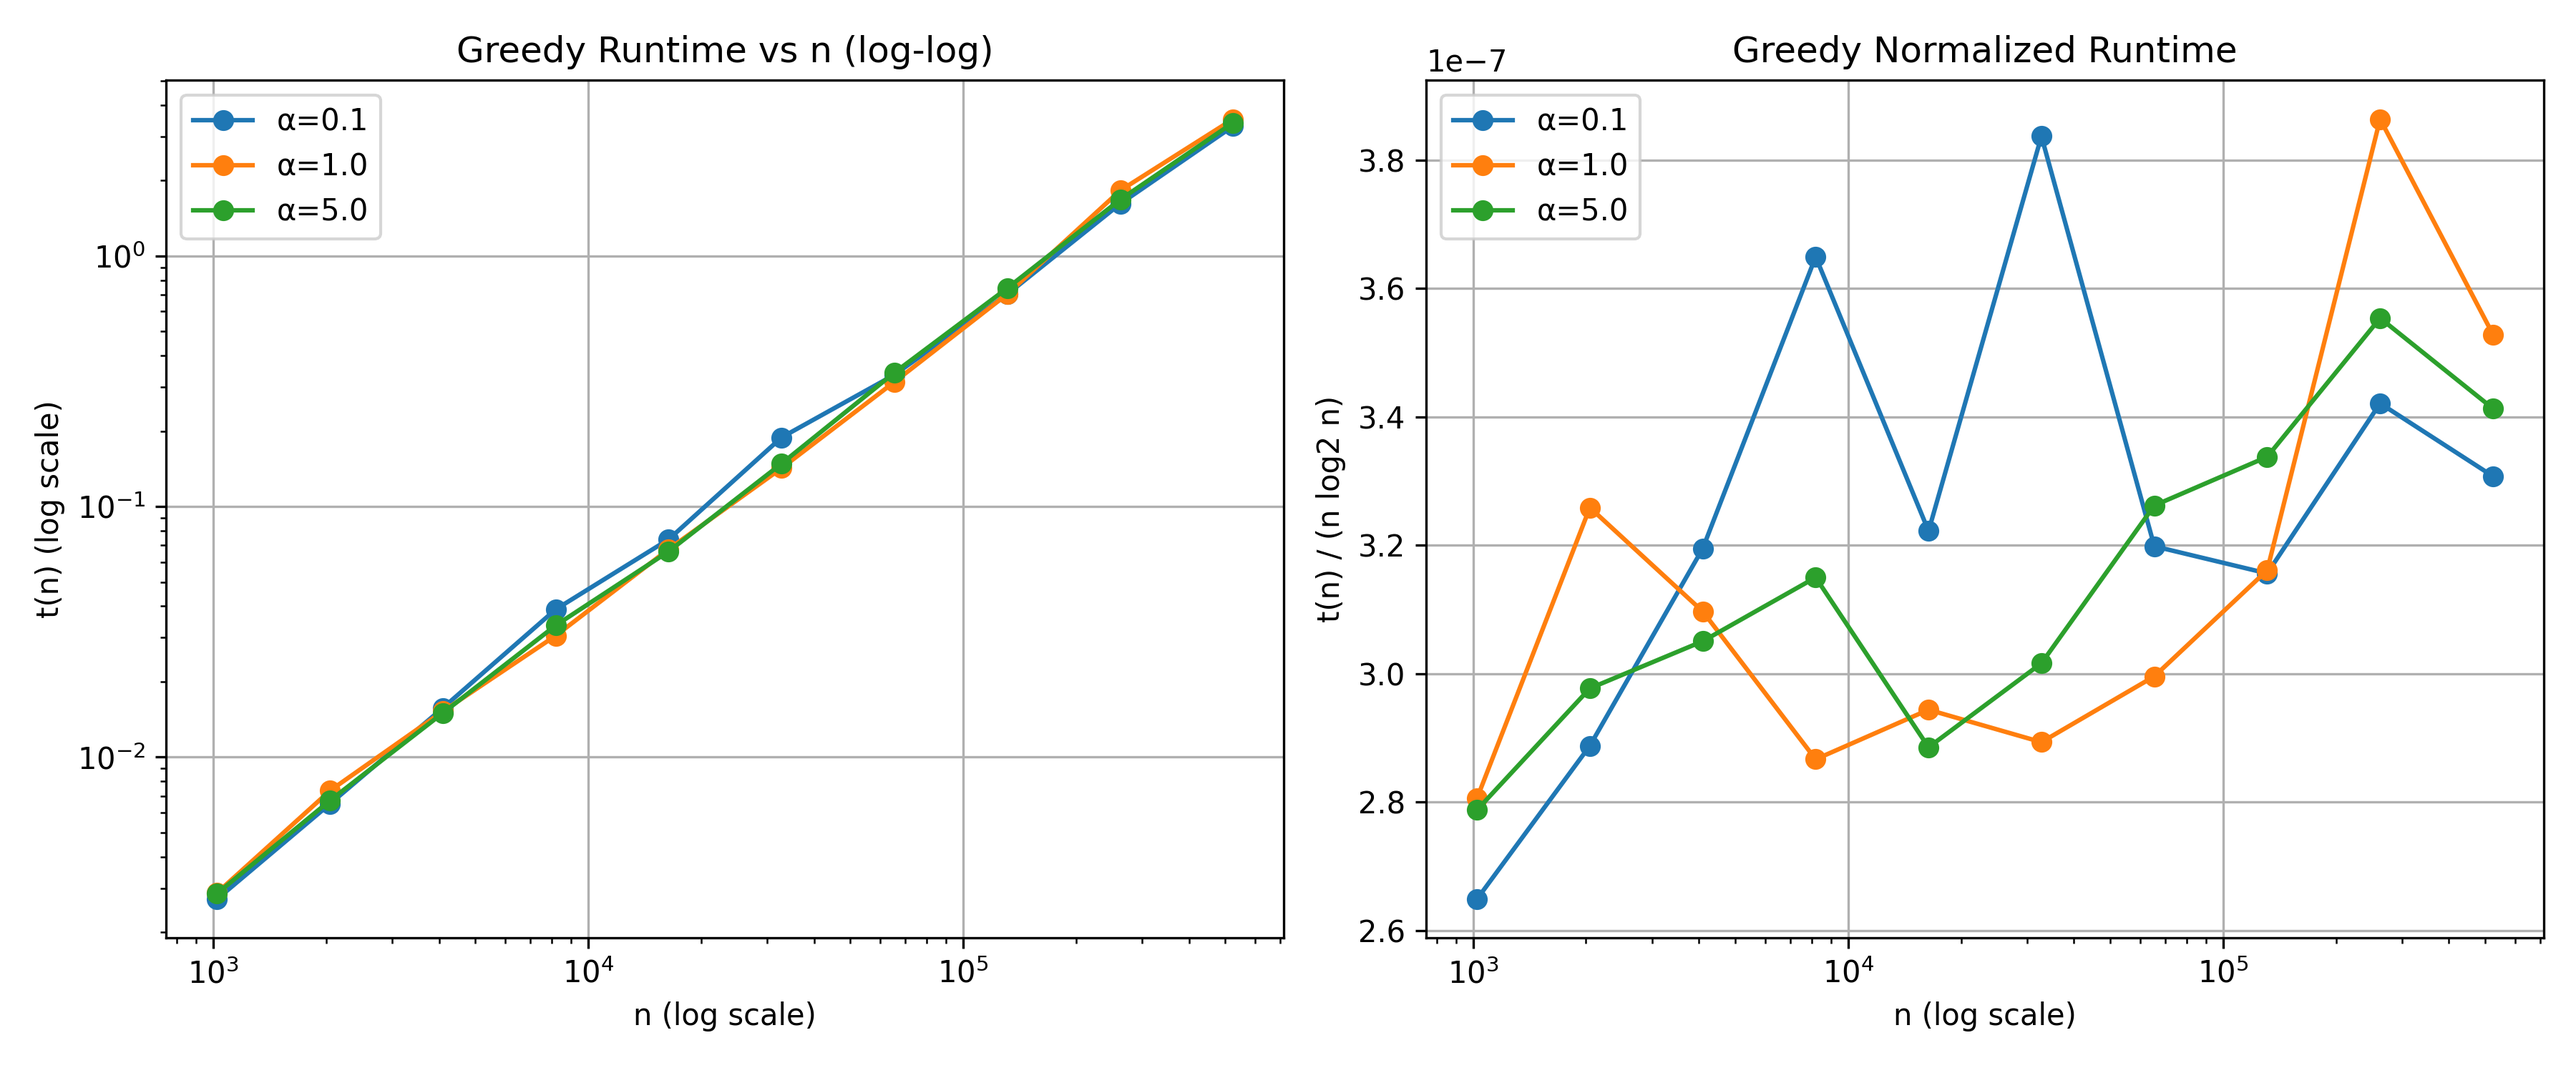
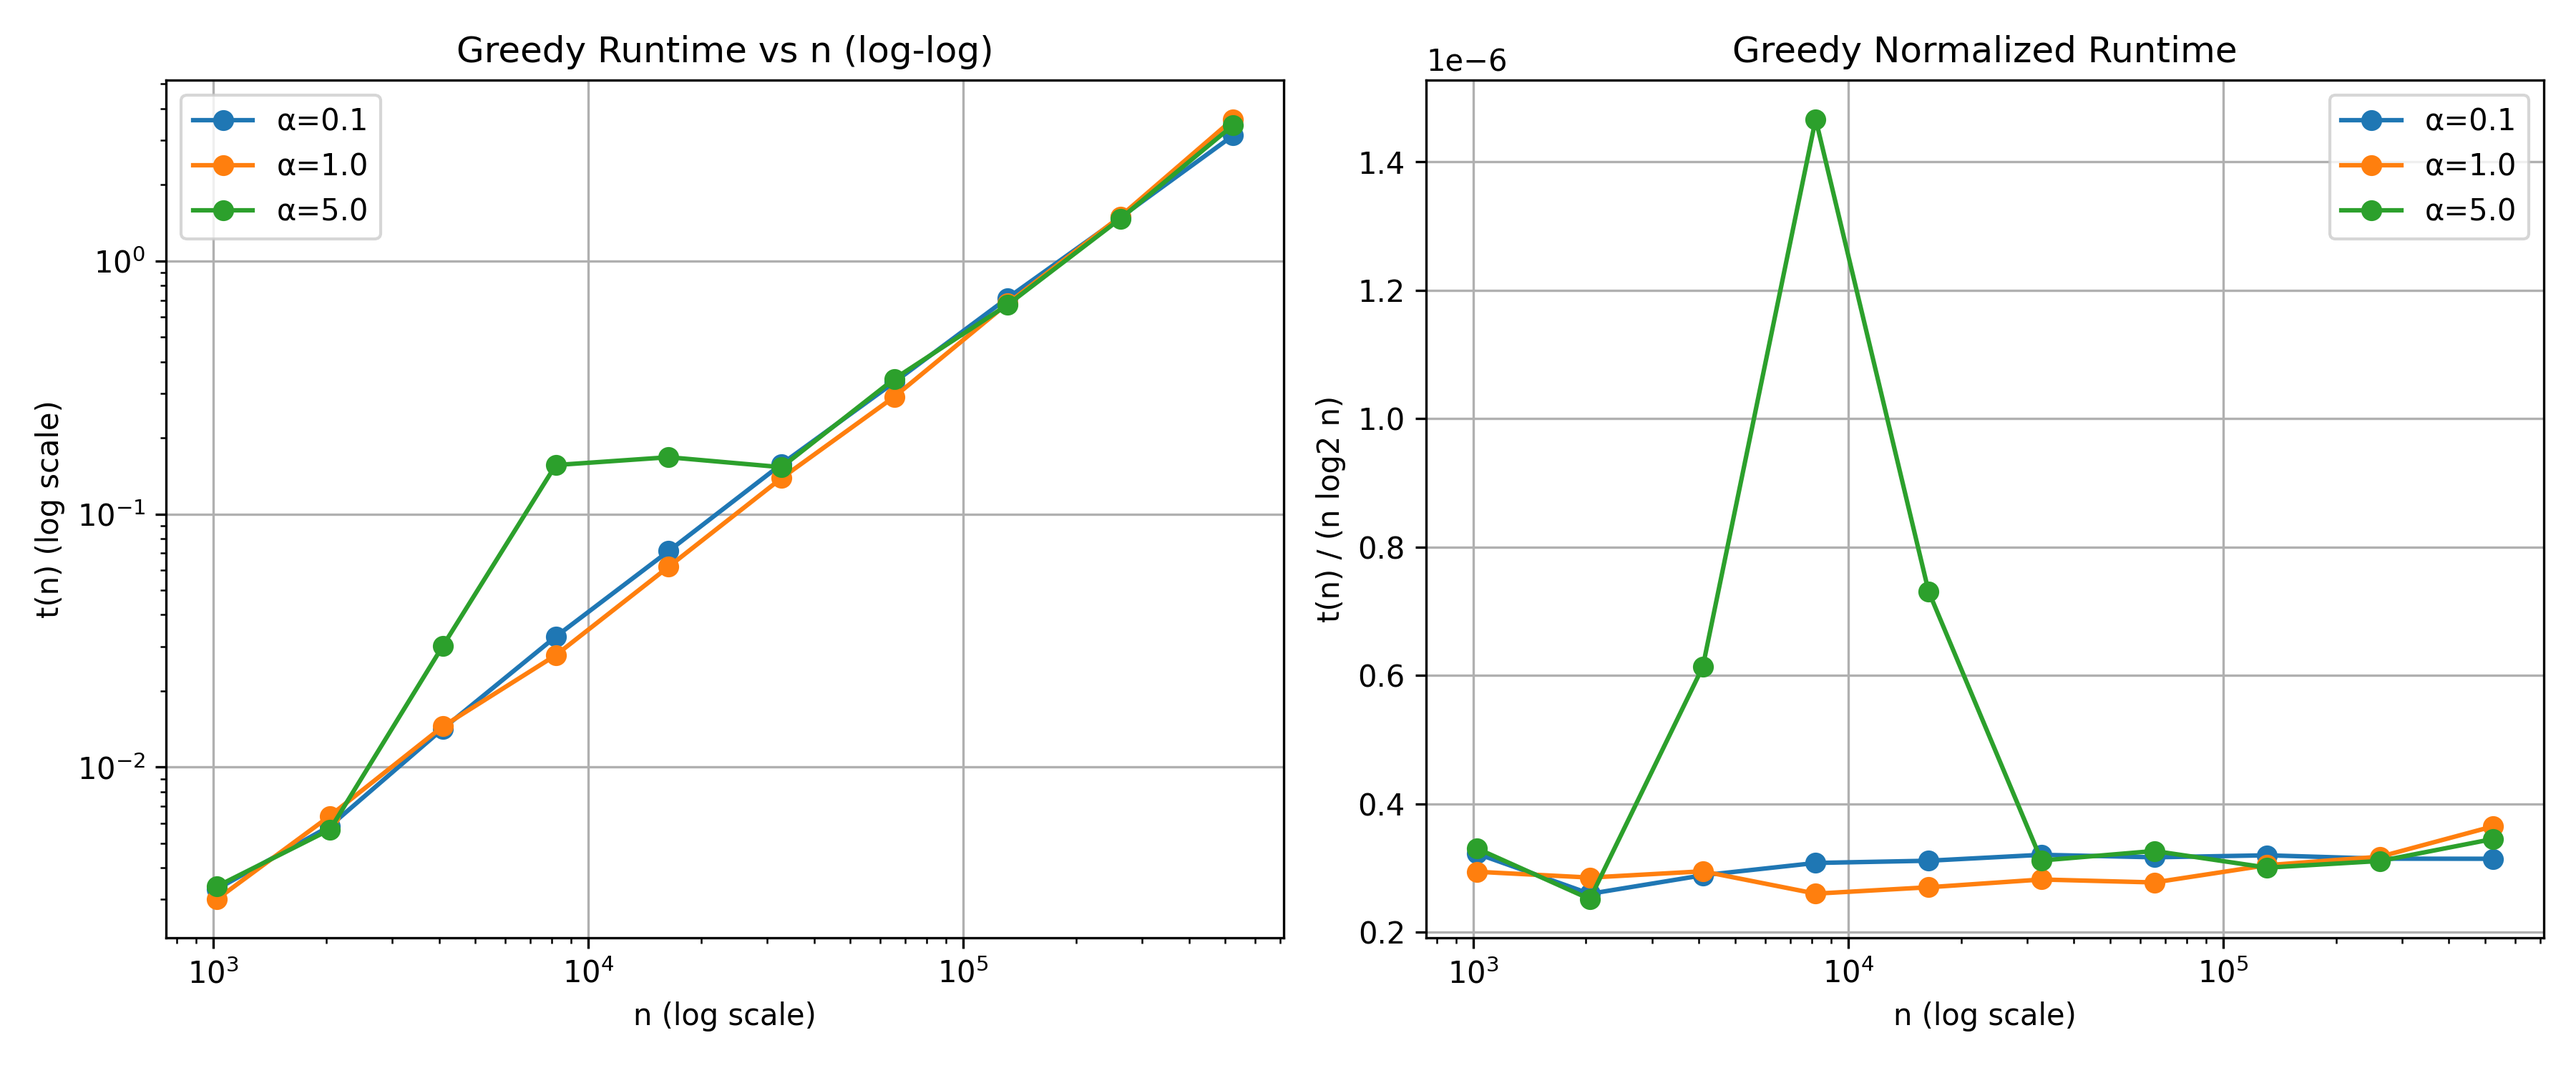
Updated Experiments

diff --git a/Readme.md b/Readme.md
@@ -5,7 +5,7 @@ The coding task implements and empirically evaluates greedy heuristics and an ex
 - **Dataset Generation**: Random intervals with start ~ Uniform(0, T), duration ~ Uniform(1, 100), where T = α * n * 100. α controls overlap: 0.1 (high), 1.0 (medium), 5.0 (low).
 - **Algorithms**:
   - Greedy: EFT (sort by finish, select non-overlapping), EST (sort by start), SD (sort by duration). All use merge sort (O(n log n)).
-  - Exhaustive: Enumerates 2^n subsets, validates non-overlap (O(n log n) per subset), finds max size. No pruning, leading to O(n 2^n log n) worst-case.
+  - Exhaustive: Enumerates 2^n subsets, validates non-overlap (O(n log n) per subset), finds max size. No pruning, leading to O(n 2^n) worst-case.
 - **Experiments**: Quality ratios (small n=8-20), greedy runtime (n=2^10 to 2^19), exhaustive runtime (n=10-20). For each configuration we compute and report the mean and standard deviation over multiple trials.
 - **Tools**: Python, NumPy, Matplotlib.
 
@@ -15,11 +15,11 @@ The coding task implements and empirically evaluates greedy heuristics and an ex
 Experiments: For n=8 to 20 (step 2), 20 trials per point, we compute the mean and standard deviation of the quality ratio (greedy count / optimal count).
 
 ### Key Findings
-- **EFT**: Always achieves ratio 1.0 across all α and n, confirming optimality. This aligns with proof by contradiction: assuming an optimal solution has more jobs leads to a contradiction by showing the greedy algorithm's early finish leaves room for additional jobs.
-- **EST and SD**: Heuristics that are not always optimal. Performance degrades with higher n and overlap:
-  - High overlap (α=0.1): EST drops to ~0.7, SD to ~0.5. Dense conflicts punish poor choices (e.g., EST may select early-starting long jobs blocking others; SD prioritizes short jobs that block compatible longer ones).
-  - Medium overlap (α=1.0): EST ~0.7-0.9, SD ~0.6. Moderate degradation.
-  - Low overlap (α=5.0): All ~0.9-1.0, as sparsity reduces suboptimal impact.
+- **EFT**: Empirically achieves ratio 1.0 (EFT_mean = 1.0 with zero standard deviation) across all α and n, confirming optimality. This aligns with proof by contradiction: assuming an optimal solution has more jobs leads to a contradiction by showing the greedy algorithm's early finish leaves room for additional jobs.
+- **EST and SD**: Heuristics that are not always optimal. Performance degrades with higher n and depends strongly on overlap:
+  - High overlap (α=0.1): EST ratios stay around 0.70–0.76 (e.g., 0.698 at n=20), while SD ratios decrease from about 0.83 (n=8) to about 0.51 (n=20). Dense conflicts punish poor choices (e.g., EST may select early-starting long jobs blocking others; SD prioritizes short jobs that block compatible longer ones).
+  - Medium overlap (α=1.0): EST remains very close to 1.0 (≈0.96–0.99 across n), whereas SD ratios are significantly lower, roughly 0.24–0.47 and decreasing with n (0.240 at n=20).
+  - Low overlap (α=5.0): EST is essentially always optimal (≈1.0 for all n), but SD still performs poorly, with ratios dropping from ~0.34 (n=8) to ~0.18 (n=20), illustrating that duration-only greediness is a weak quality heuristic even when intervals are sparse.
 - Observation: EFT's finish-time priority is crucial (proven optimal). Heuristics approximate well in sparse scenarios but fail in dense ones, highlighting why they're heuristics with no correctness guarantee.
 
 ### Plot: Solution Quality: Greedy vs Optimal
@@ -29,42 +29,42 @@ Experiments: For n=8 to 20 (step 2), 20 trials per point, we compute the mean an
 
 | α (Overlap) | EFT Ratio | EST Ratio | SD Ratio | Optimal |
 |-------------|-----------|-----------|----------|---------|
-| 0.1 (High)  | 1.0       | 0.721     | 0.520    | 1.0     |
-| 1.0 (Medium)| 1.0       | 0.963     | 0.258    | 1.0     |
-| 5.0 (Low)   | 1.0       | 1.0       | 0.179    | 1.0     |
+| 0.1 (High)  | 1.000     | 0.698     | 0.508    | 1.0     |
+| 1.0 (Medium)| 1.000     | 0.972     | 0.240    | 1.0     |
+| 5.0 (Low)   | 1.000     | 0.997     | 0.180    | 1.0     |
 
 These results validate that SD has counterexamples (high-overlap case shows failure) and demonstrate the maintained non-overlap loop invariant in the greedy algorithm, proven via induction.
 
 ## 3. Runtime Complexity Validation
-**Coding Question Addressed**: Empirically validate Big-O complexities for greedy (O(n log n)) and exhaustive (O(n 2^n)) across α, with normalization to confirm bounds.
+**Coding Question Addressed**: Empirically validate Big-O complexities for greedy (O(n log n)) and exhaustive (O(2^n)) across α, with normalization to confirm bounds.
 
 ### 3.1 Greedy Runtime (EFT as Representative)
 Experiments: n=1024 to ~500k, 10 trials. For each configuration we measure total time (sorting + selection) and compute both the mean and standard deviation across trials.
 
 - **Findings**:
   - Runtime scales as O(n log n): Log-log plot shows near-linear slope (slope ≈1 for n log n).
-  - Normalized t(n)/(n log₂ n): Stabilizes at ~2.2-2.9 × 10^{-7} s (constant, confirming bound). Initial fluctuations due to overhead at small n.
-  - α Impact: Low overlap (α=5.0) slightly faster (fewer comparisons); high overlap slower but same complexity.
-- Ties to Theory: Matches Mergesort's O(n log n) worst-case time complexity and O(n) space, compared to Quicksort's O(n^2) worst-case time but O(log n) space.
+  - Normalized t(n)/(n log₂ n): Stabilizes around (2.7–3.7) × 10^{-7} s for α=1.0 (e.g., ≈2.94 × 10^{-7} at n=1024 and ≈3.65 × 10^{-7} at n=524288), confirming the n log n bound. Initial fluctuations are due to overhead at small n.
+  - α Impact: All three overlap regimes exhibit very similar growth curves; constants differ slightly but the asymptotic behaviour is the same.
+- Ties to Theory: Matches Mergesort's O(n log n) worst-case time complexity and O(n) space.
 
 ### Plot: Greedy Runtime Validation
 ![Greedy Runtime Validation](plots/greedy_big_o.png)
 
 **Table 2: Greedy Runtime Excerpt (α=1.0)**
 
-| n      | Time (ms) | Normalized (×10^{-7}) |
-|--------|-----------|-----------------------|
-| 1024   | 2.87      | 2.81                  |
-| 16384  | 67.52     | 2.94                  |
-| 524288 | 3514.74   | 3.53                  |
+| n      | Time Mean (ms) | Time Std (ms) | Normalized (×10^{-7}) |
+|--------|----------------|---------------|-----------------------|
+| 1024   | 3.01           | 0.29          | 2.94                  |
+| 16384  | 61.92          | 4.36          | 2.70                  |
+| 524288 | 3634.42        | 392.81        | 3.65                  |
 
 ### 3.2 Exhaustive Runtime
 Experiments: n=10-20, 5 trials. For each configuration we record the mean and standard deviation of the exhaustive solver's runtime.
 
 - **Findings**:
-  - Runtime O(n 2^n): vs n plot shows exponential growth (up to ~4s at n=20 for high overlap).
-  - Normalized t(n)/(n 2^n): Decreases to ~1.6-2.4 × 10^{-7} s (trends toward constant but doesn't fully stabilize due to small n). High overlap (α=0.1) has lower constant (implicit early invalidations act as "pruning").
-  - α Impact: High overlap faster in practice (more early conflicts skip computations), but worst-case still exponential.
+  - Runtime O(n 2^n): vs n plot shows exponential growth (up to roughly 4s at n=20 for high overlap; e.g., ≈3.93 s for α=0.1 and ≈4.85 s for α=5.0).
+  - Normalized t(n)/(n 2^n): Decreases to roughly (1.9–3.3) × 10^{-7} s (trends toward a constant but doesn't fully stabilize due to small n). High overlap (α=0.1) has a slightly lower constant (implicit early invalidations act as "pruning").
+  - α Impact: High overlap is faster in practice (more early conflicts skip computations), but worst-case remains exponential for all α.
 - Ties to Theory: Impractical for n>20 (e.g., n=20: ~1 million subsets, compared to n! for TSP which is ~2.4 × 10^{18} for n=20, far worse). No explicit pruning, but backtracking can significantly reduce runtime for small or typical n by eliminating branches that cannot lead to a better solution, so fewer states are explored in practice. However, in the worst case, no branches are pruned and the algorithm still examines all possible subsets (≈ 2ⁿ states). Therefore, pruning improves average-case performance but does not change the worst-case time complexity, which remains exponential and impractical at scale.
 
 ### Plot: Exhaustive Runtime Validation
@@ -72,11 +72,11 @@ Experiments: n=10-20, 5 trials. For each configuration we record the mean and st
 
 **Table 3: Exhaustive Runtime Excerpt (α=0.1)**
 
-| n  | Time (s) | Normalized (×10^{-7}) |
-|----|----------|-----------------------|
-| 10 | 0.0036   | 3.53                  |
-| 15 | 0.117    | 2.38                  |
-| 20 | 4.273    | 2.04                  |
+| n  | Time Mean (s) | Time Std (s) | Normalized (×10^{-7}) |
+|----|---------------|--------------|-----------------------|
+| 10 | 0.0033        | 0.0003       | 3.25                  |
+| 15 | 0.1175        | 0.0087       | 2.39                  |
+| 20 | 3.9304        | 0.1154       | 1.88                  |
 
 ## 4. Discussion and Observations
 - **Overlap Impact (α)**: High overlap amplifies heuristic failures (quality) but slightly improves exhaustive runtime (implicit pruning). Low overlap makes all strategies near-optimal.
